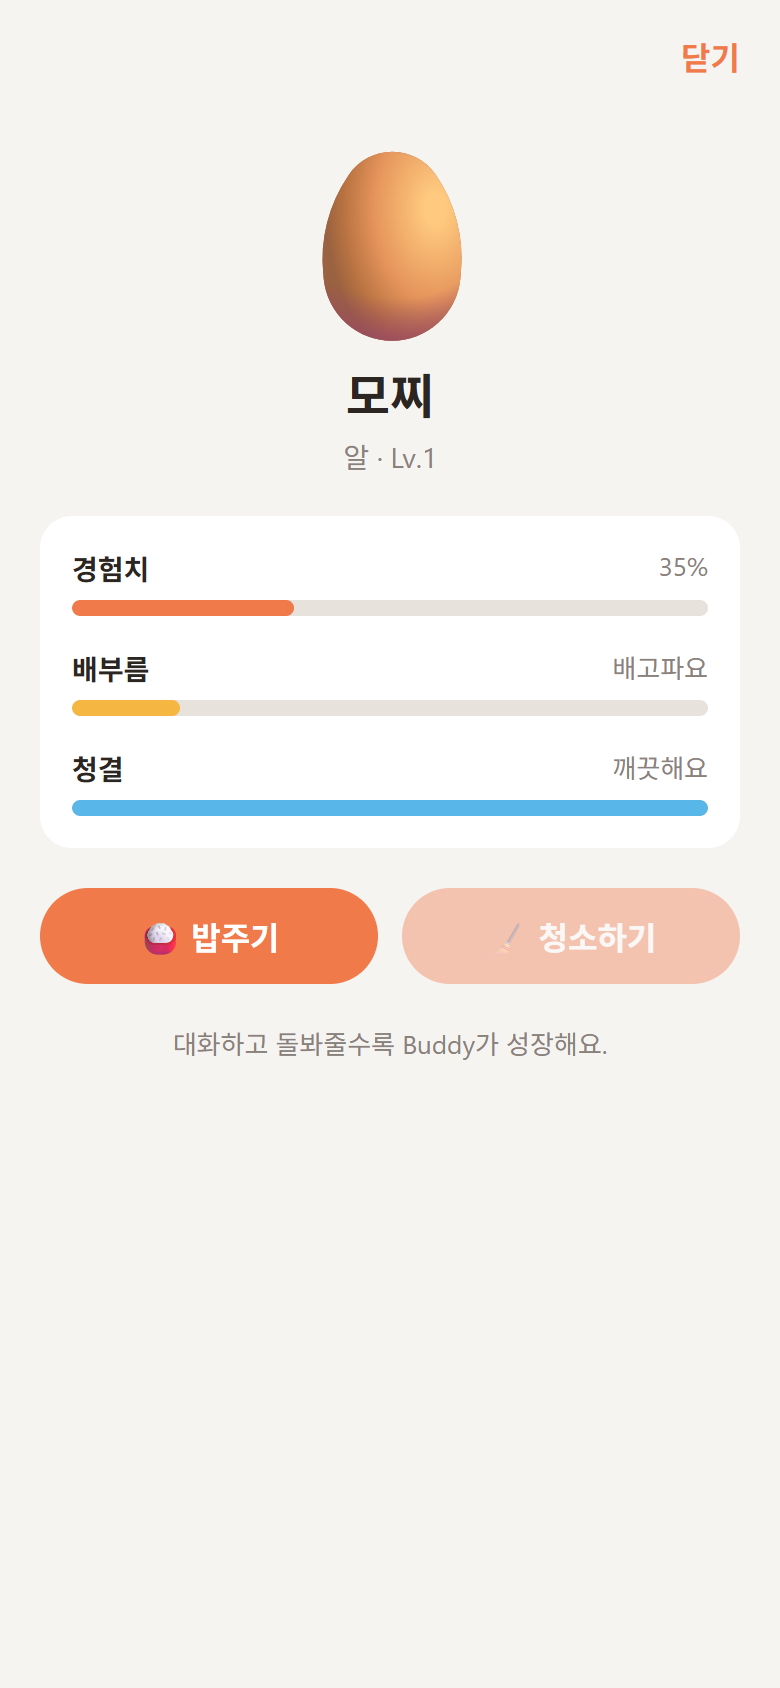
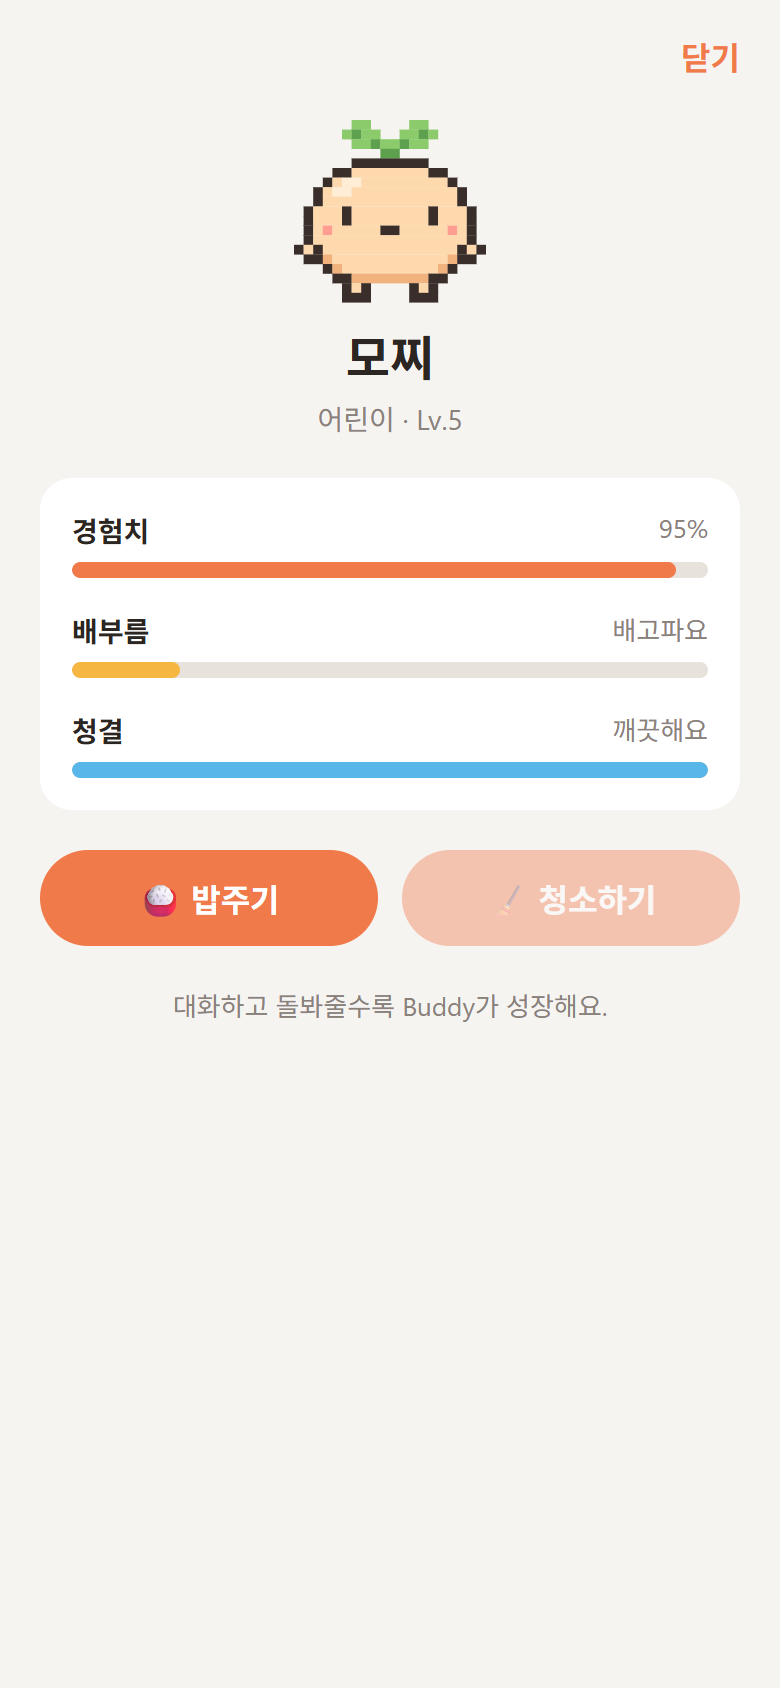
docs: 도트 Buddy 무대로 README 캡처 다시 찍음

Changed region(s): [[0.0308, 0.3081, 0.9538, 0.6469], [0.3692, 0.0616, 0.6154, 0.2773]]

diff --git a/README.md b/README.md
@@ -57,6 +57,7 @@ Yuki    싫어 ㅋㅋ
 - 앱을 닫아두면 새 메시지를 푸시로 알려줘요 (iOS)
 
 **🐣 Buddy**
+- 채팅 위 작은 무대에서 도트 Buddy가 돌아다녀요. 밥을 주면 냠냠 먹고, 상대 메시지가 오면 폴짝 뛰어요
 - 알 → 아기 → 어린이 → 어른으로 자라요. 대화하고 돌봐줄수록 빨리요
 - 시간이 지나면 배고파지고 💩을 싸요. 둘 중 누가 챙겼는지 대화에 남아요
 - **죽지 않아요.** 며칠 잊어도 괜찮아요. 돌봐주면 금방 기운을 차려요
@@ -153,5 +154,5 @@ iPhone에서는 개발용 빌드로 열어요. 자세한 명령은 [CLAUDE.md](C
 - [x] Buddy 돌봄과 성장
 - [x] Azure 배포 (서버 · 웹)
 - [ ] iPhone 개발용 빌드와 푸시 알림
-- [ ] Buddy 오리지널 캐릭터와 애니메이션 (지금은 이모지가 자리를 지키고 있어요 🥚)
+- [x] Buddy 도트 캐릭터와 애니메이션 (먹기 · 💩 · 진화 · 메시지 반응)
 - [ ] Sign in with Apple
